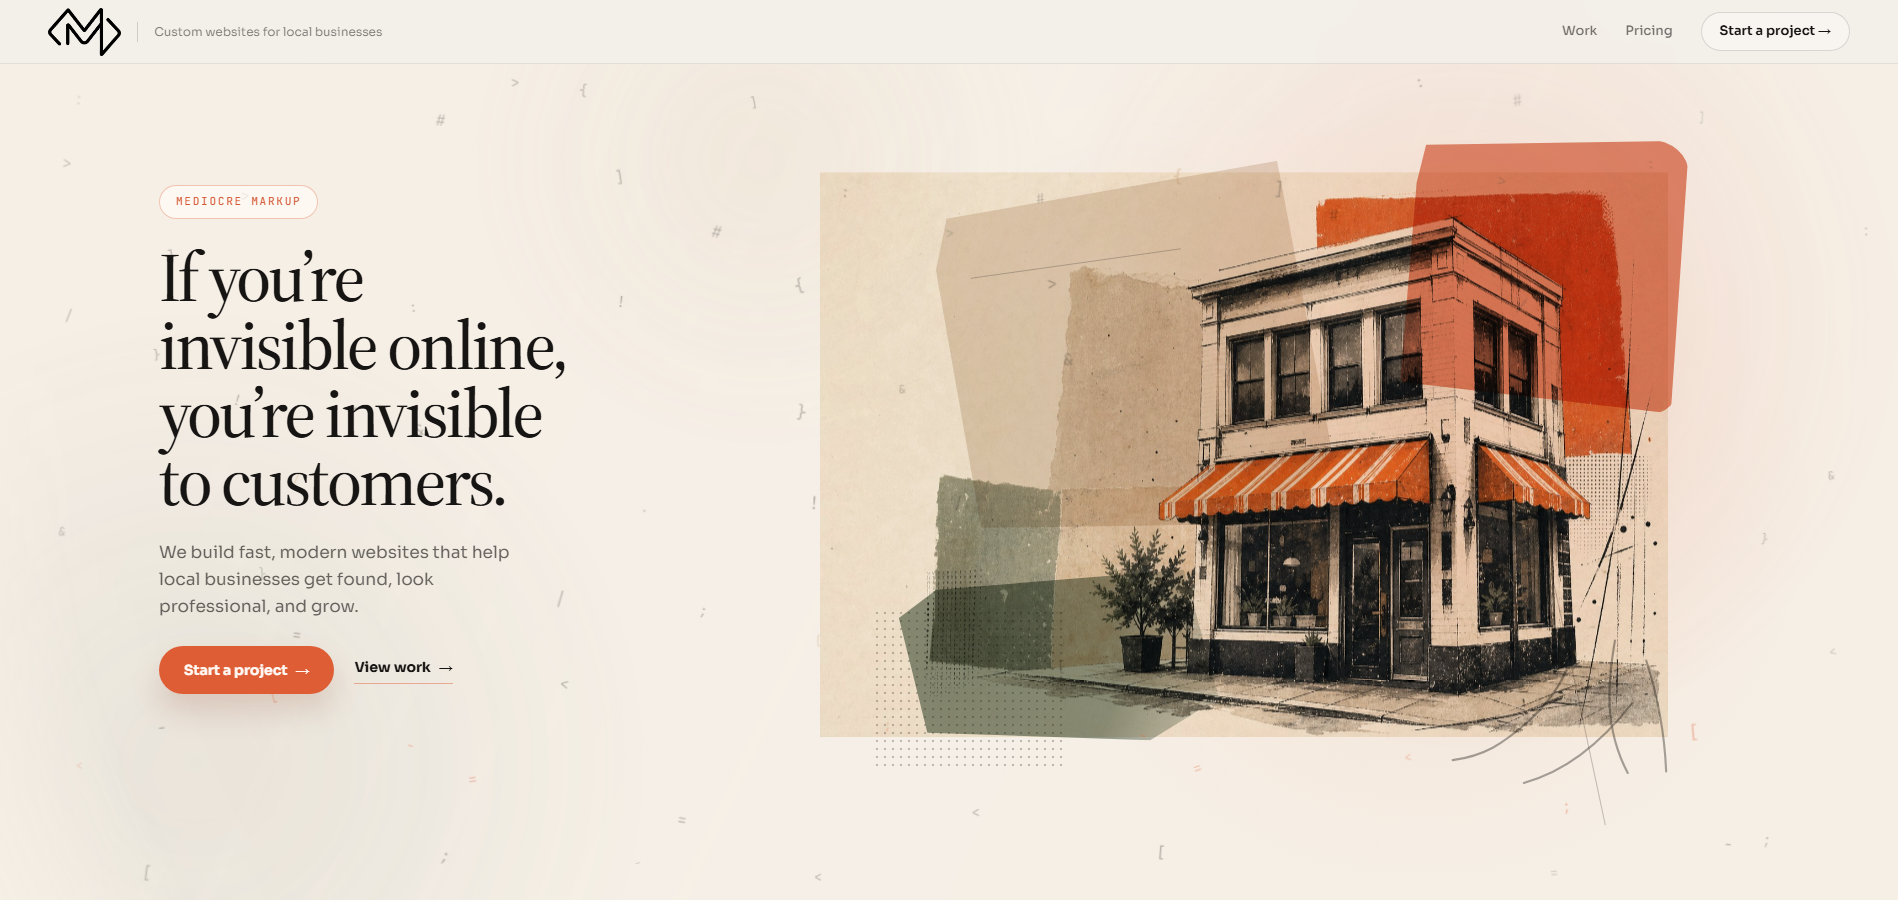
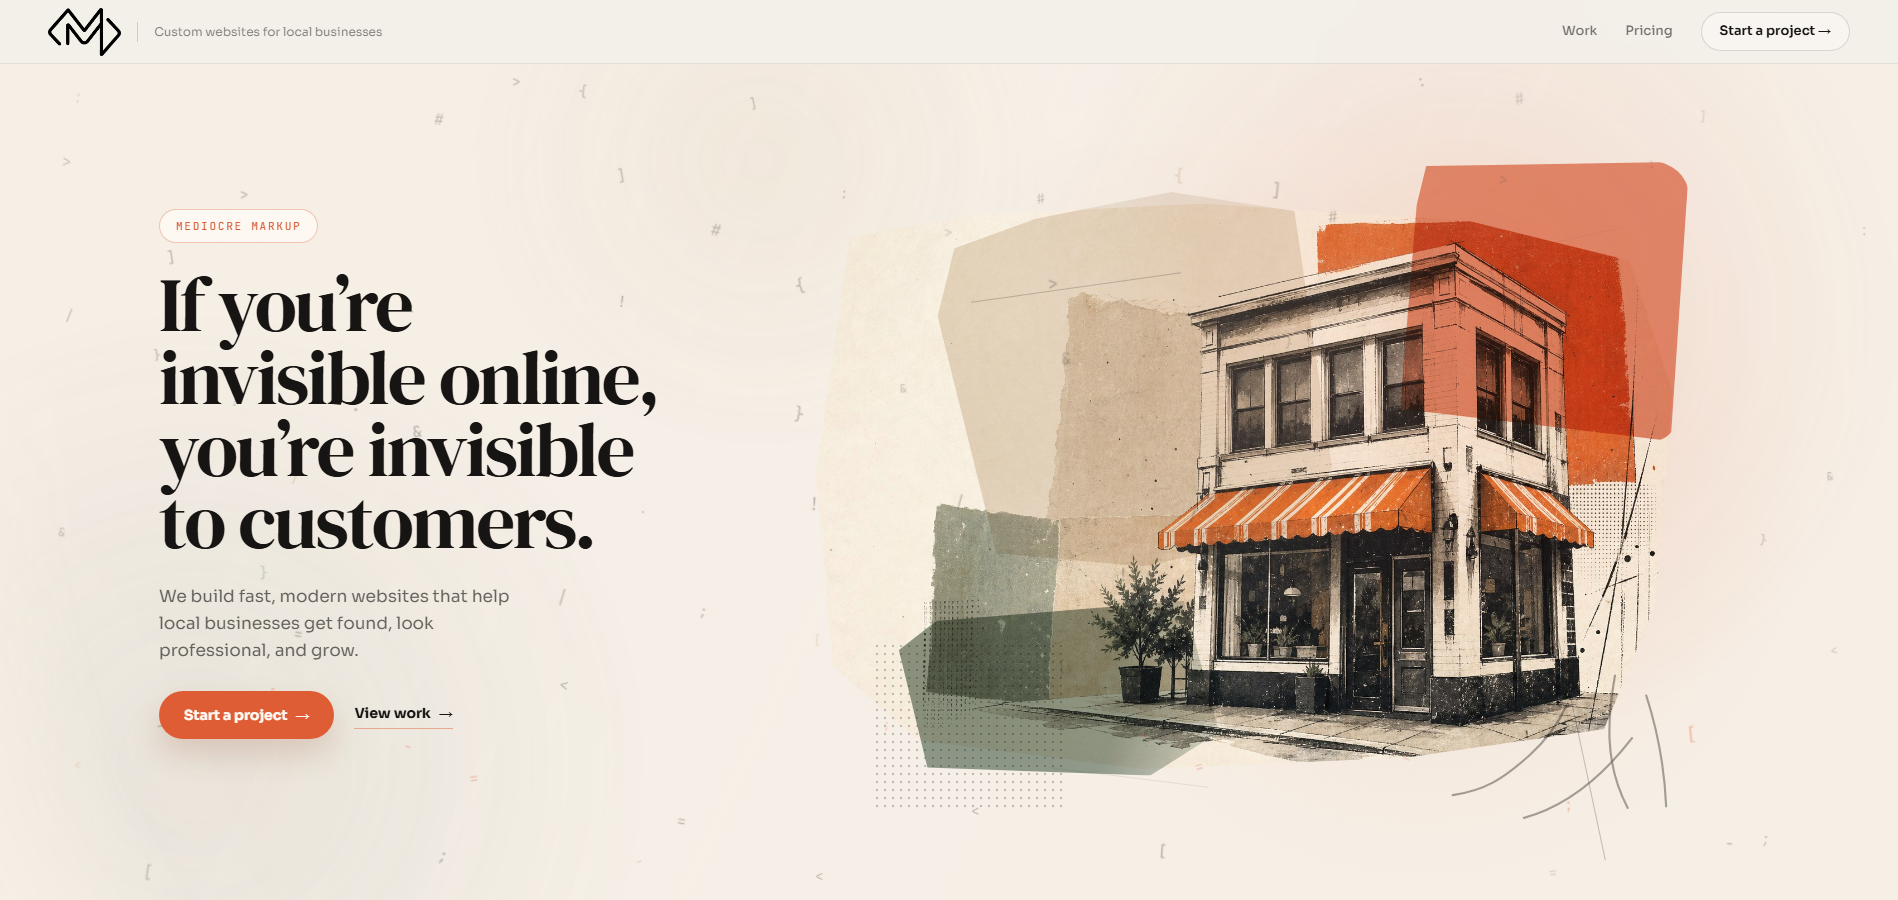
removed the big square

Changed region(s): [[0.4041, 0.1556, 0.9015, 0.9022], [0.0622, 0.2178, 0.3419, 0.84]]

diff --git a/index.html b/index.html
@@ -19,31 +19,31 @@
     *, *::before, *::after { margin: 0; padding: 0; box-sizing: border-box; }
     :root {
       /* Default Theme: Beautiful */
-      --bg: #f3efe9; --surface: #faf7f2;
+      --bg: #f6efe6; --surface: #fbf7f1;
       --ink: #171513; --muted: #6f675f; --accent: #df5d35; --accent2: #cdbfb1;
       --line: rgba(23,21,19,0.10);
       --font-body: 'Sora', 'Inter', sans-serif;
-      --font-serif: 'Source Serif 4', 'DM Serif Display', serif;
+      --font-serif: 'DM Serif Display', 'Source Serif 4', serif;
       --font-mono: 'JetBrains Mono', monospace;
       transition: all 1.2s cubic-bezier(0.4, 0, 0.2, 1);
     }
 
     body.theme-professional {
-      --bg: #f4f7f9; --surface: #ffffff;
-      --ink: #1a2a3a; --muted: #546e7a; --accent: #2c5282; --accent2: #4299e1;
-      --line: rgba(44,82,130,0.1);
+      --bg: #f6efe6; --surface: #fbf7f1;
+      --ink: #171513; --muted: #6f675f; --accent: #df5d35; --accent2: #cdbfb1;
+      --line: rgba(23,21,19,0.10);
     }
 
     body.theme-effective {
-      --bg: #fafafa; --surface: #ffffff;
-      --ink: #1a1a1a; --muted: #666666; --accent: #2d3748; --accent2: #718096;
-      --line: rgba(0,0,0,0.05);
+      --bg: #f6efe6; --surface: #fbf7f1;
+      --ink: #171513; --muted: #6f675f; --accent: #df5d35; --accent2: #cdbfb1;
+      --line: rgba(23,21,19,0.10);
     }
 
     body.theme-memorable {
-      --bg: #f5f5f0; --surface: #fcfcf9;
-      --ink: #2d302d; --muted: #5e665e; --accent: #385e3c; --accent2: #82a182;
-      --line: rgba(56,94,60,0.1);
+      --bg: #f6efe6; --surface: #fbf7f1;
+      --ink: #171513; --muted: #6f675f; --accent: #df5d35; --accent2: #cdbfb1;
+      --line: rgba(23,21,19,0.10);
     }
 
     /* Apply variables to existing styles */
@@ -3635,6 +3635,66 @@
     .footer-email { font-family: var(--font-mono); font-size: 10px; color: #5A547A; letter-spacing: 1px; transition: color 0.2s; }
     .footer-email:hover { color: #F0635A; }
     @media (max-width: 900px) { footer { padding: 24px; flex-direction: column; gap: 8px; align-items: flex-start; } }
+
+    /* -- GLOBAL HERO-MATCHING THEME PASS: palette + typography only -- */
+    .feature-band {
+      background: #efe3d3;
+    }
+    .feature-quote {
+      font-family: var(--font-serif);
+      color: var(--ink);
+    }
+    .feature-list li {
+      color: var(--muted);
+    }
+    .feature-list li::before,
+    .price-features li::before {
+      color: var(--accent);
+    }
+    .what-item h3,
+    .price-name,
+    .process-step h3,
+    .h-scroll-card h3,
+    .cta h2 {
+      font-family: var(--font-serif);
+      font-weight: 400;
+    }
+    .what-tag {
+      background: rgba(223, 93, 53, 0.14);
+      color: var(--accent);
+    }
+    .price-card {
+      background: #f1e8dc;
+      border-color: rgba(23, 21, 19, 0.12);
+    }
+    .price-card.featured {
+      background: var(--accent);
+      border-color: var(--accent);
+    }
+    .price-card.featured .btn-primary {
+      background: var(--ink);
+      border-color: var(--ink);
+      color: #fffaf5;
+    }
+    .service-chip:hover,
+    .process-circle {
+      background: var(--accent);
+      border-color: var(--accent);
+    }
+    .process-circle {
+      box-shadow: 0 4px 16px rgba(223, 93, 53, 0.24);
+    }
+    .process-step-time,
+    .footer-copy,
+    .footer-tagline,
+    .footer-email {
+      color: var(--muted);
+    }
+    .cta-email:hover,
+    .footer-email:hover {
+      color: var(--accent);
+      border-color: var(--accent);
+    }
 
     /* -- SCROLL REVEAL -- */
     .reveal { opacity: 0; transform: translateY(30px); transition: opacity 0.6s ease-out, transform 0.6s ease-out; }
@@ -7572,11 +7632,11 @@
       margin: 0;
       max-width: none;
       color: var(--hero-ink);
-      font-family: var(--font-serif);
-      font-size: clamp(42px, min(4.35vw, 7vh), 68px);
-      font-weight: 500;
-      line-height: 0.98;
-      letter-spacing: -0.04em;
+      font-family: 'DM Serif Display', var(--font-serif);
+      font-size: clamp(48px, min(4.8vw, 7.5vh), 78px);
+      font-weight: 400;
+      line-height: 0.94;
+      letter-spacing: -0.03em;
     }
 
     .hero-title .line { display: block; }
@@ -7687,9 +7747,11 @@
       top: 18%;
       width: 38%;
       height: 42%;
-      background: rgba(225, 210, 192, 0.8);
-      clip-path: polygon(4% 8%, 92% 0, 100% 84%, 84% 100%, 6% 94%, 0 22%);
-      border-radius: 18% 8% 14% 10% / 12% 10% 18% 14%;
+      background:
+        radial-gradient(circle at 20% 20%, rgba(232, 220, 204, 0.92), rgba(225, 210, 192, 0.82) 46%, rgba(225, 210, 192, 0.64) 76%, rgba(225, 210, 192, 0.18) 100%);
+      clip-path: polygon(6% 10%, 28% 4%, 64% 0, 96% 8%, 100% 78%, 86% 95%, 48% 100%, 10% 93%, 0 28%);
+      border-radius: 24% 10% 18% 14% / 18% 12% 22% 16%;
+      filter: saturate(0.92) blur(0.2px);
       transform: translate(calc(var(--mx) * 0.12), calc(var(--my) * 0.12)) rotate(-5deg);
     }
 
@@ -7736,6 +7798,11 @@
       z-index: 4;
       filter: saturate(0.96) contrast(1.03);
       mix-blend-mode: multiply;
+      clip-path: polygon(
+        4% 7%, 18% 3%, 45% 1%, 76% 4%, 95% 11%,
+        100% 34%, 98% 71%, 92% 93%, 69% 98%,
+        38% 100%, 12% 95%, 2% 82%, 0 48%
+      );
       transform: translate(calc(-50% + var(--mx) * -0.24), calc(-50% + var(--my) * -0.24));
     }
 
@@ -7757,6 +7824,22 @@
       bottom: 16%;
       width: 28%;
       transform: translate(calc(var(--mx) * -0.12), calc(var(--my) * -0.12)) rotate(78deg);
+    }
+
+    .art-stroke.three {
+      left: 22%;
+      bottom: 11%;
+      width: 18%;
+      opacity: 0.34;
+      transform: translate(calc(var(--mx) * 0.08), calc(var(--my) * 0.08)) rotate(7deg);
+    }
+
+    .art-stroke.four {
+      right: 13%;
+      top: 18%;
+      width: 15%;
+      opacity: 0.22;
+      transform: translate(calc(var(--mx) * -0.08), calc(var(--my) * -0.08)) rotate(-12deg);
     }
 
     .art-scribble {
@@ -7845,8 +7928,8 @@
     @media (min-width: 1101px) and (max-height: 920px) {
       .hero.hero-blueprint {
         align-items: center;
-        padding-top: clamp(28px, 3.4vh, 38px);
-        padding-bottom: clamp(18px, 2.4vh, 28px);
+        padding-top: clamp(20px, 2.4vh, 30px);
+        padding-bottom: clamp(8px, 1.2vh, 16px);
       }
 
       .hero-blueprint-shell {
@@ -7856,13 +7939,13 @@
       }
 
       .hero-copy {
-        gap: 24px;
-        padding-top: 0;
+        gap: 25px;
+        transform: translateY(34px);
       }
 
       .hero-title {
-        font-size: clamp(52px, min(4.8vw, 7.7vh), 74px);
-        line-height: 0.98;
+        font-size: clamp(64px, min(5.45vw, 8.55vh), 94px);
+        line-height: 0.94;
       }
 
       .hero-lede {
@@ -7871,12 +7954,13 @@
       }
 
       .hero-artwork {
-        width: min(100%, 1060px);
-        min-height: min(82svh, 760px);
+        width: min(100%, 1120px);
+        min-height: min(84svh, 790px);
+        transform: translateY(28px);
       }
 
       .hero-building {
-        width: min(980px, 96%);
+        width: min(1040px, 97%);
       }
 
       .art-swatch.one {
@@ -8004,6 +8088,8 @@
         <span class="art-halftone"></span>
         <span class="art-stroke one"></span>
         <span class="art-stroke two"></span>
+        <span class="art-stroke three"></span>
+        <span class="art-stroke four"></span>
         <img class="hero-building" src="images/storefront-artwork.jpg" alt="Stylized corner storefront artwork">
         <svg class="art-scribble" viewBox="0 0 180 110" aria-hidden="true">
           <path d="M4 88c22-3 35-11 54-28 11-10 19-20 26-35"/>
